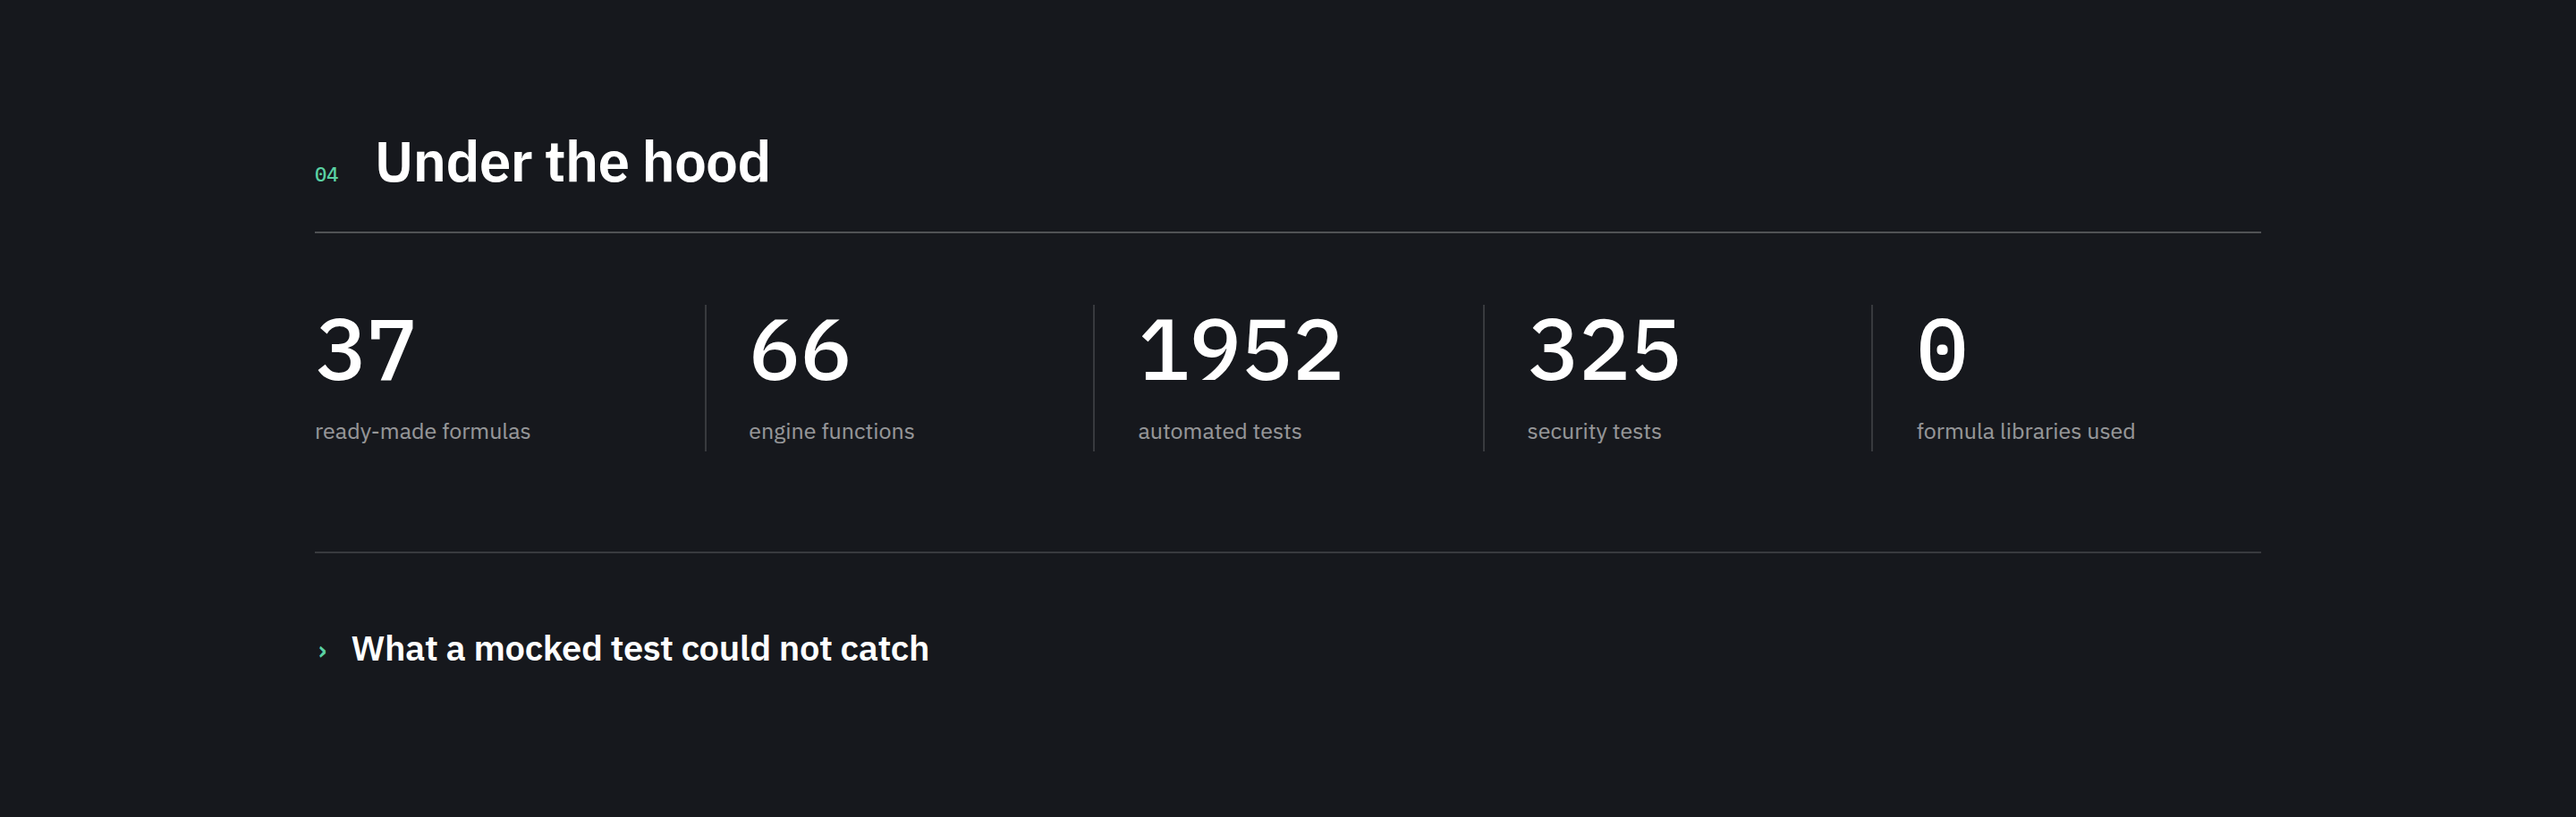
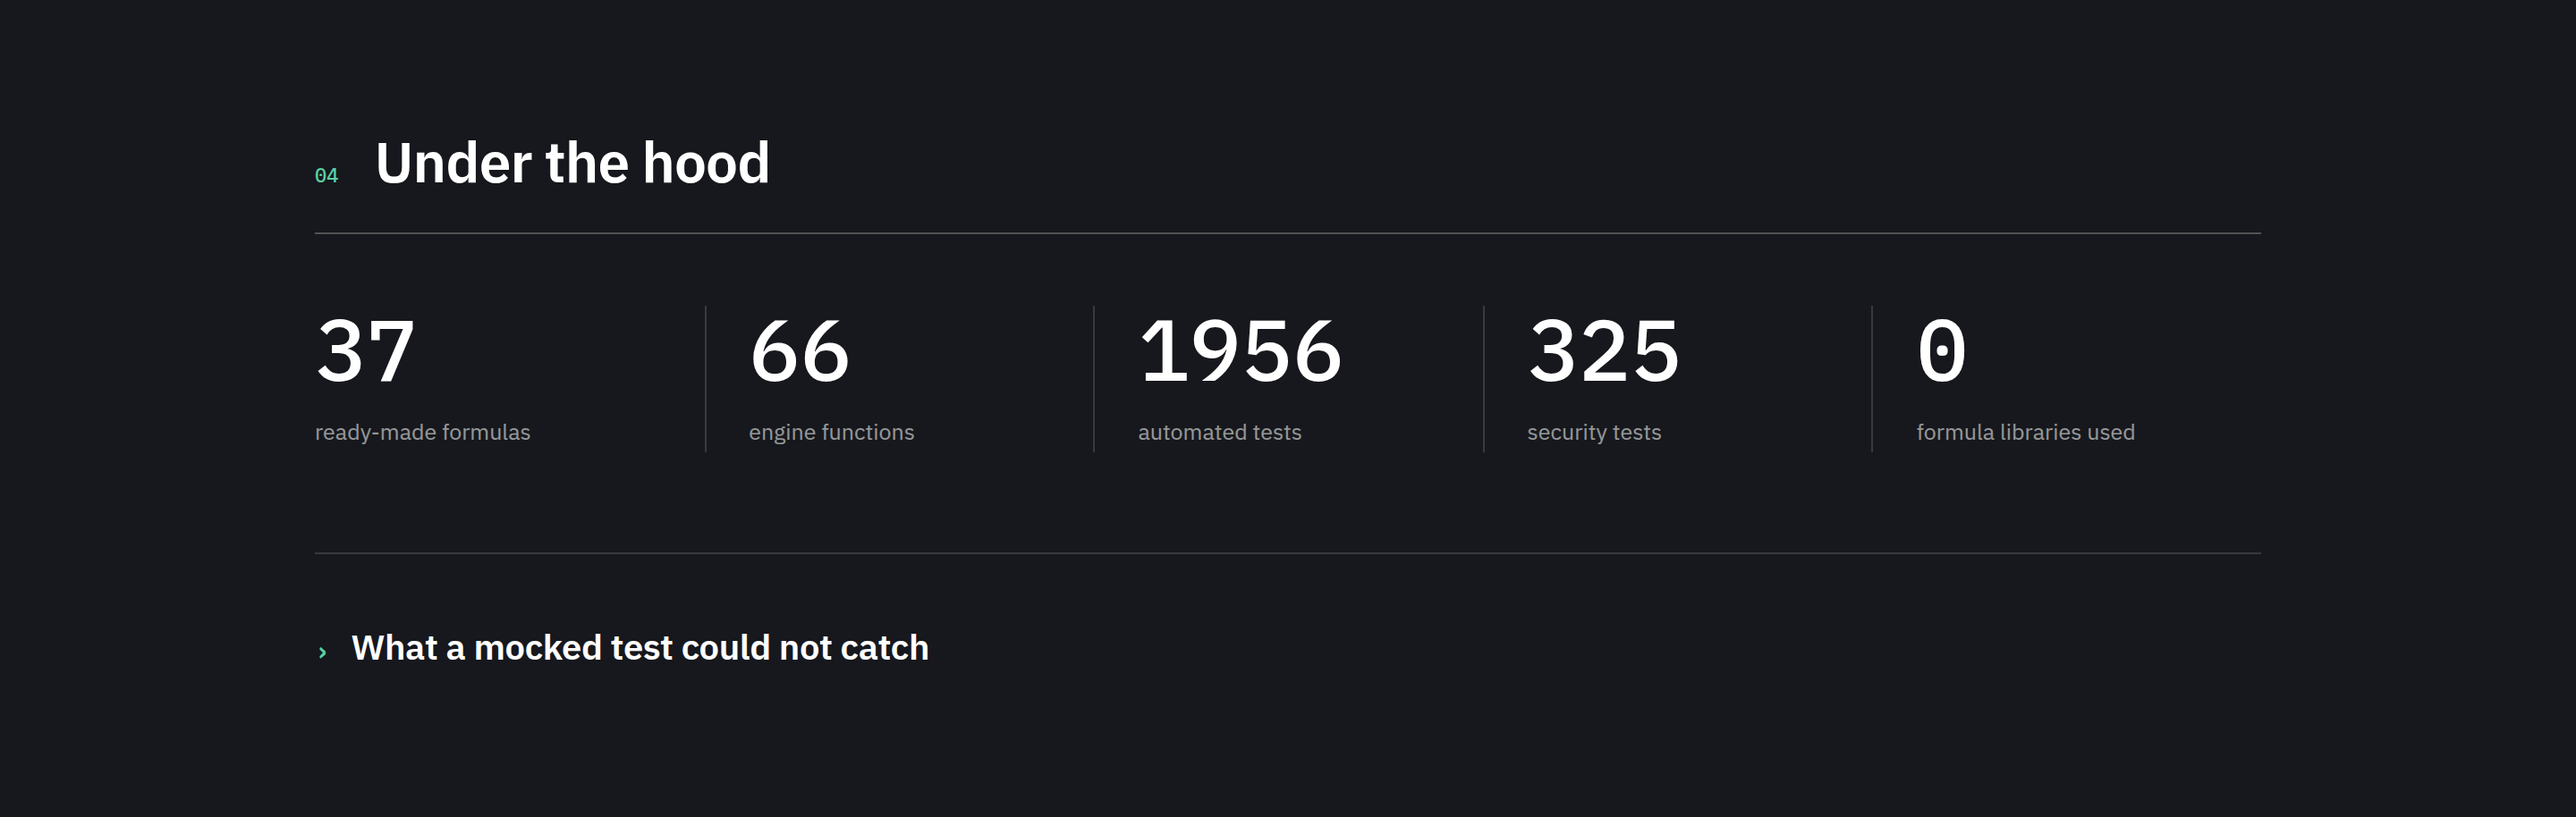
Recount after merging main: 1956 tests, picture 27 and social card retaken
Claude-Session: https://claude.ai/code/session_013pmWZsbmugfpqtYazrzfjj

diff --git a/src/i18n/th.ts b/src/i18n/th.ts
@@ -429,7 +429,7 @@ export const th: Messages = {
     stats: [
       { value: "37", label: "สูตรพร้อมใช้" },
       { value: "66", label: "ฟังก์ชันในเอนจิน" },
-      { value: "1952", label: "เทสต์อัตโนมัติ" },
+      { value: "1956", label: "เทสต์อัตโนมัติ" },
       { value: "325", label: "เทสต์ด้านความปลอดภัย" },
       { value: "0", label: "ไลบรารีคำนวณสูตร" },
     ],

diff --git a/src/i18n/en.ts b/src/i18n/en.ts
@@ -430,7 +430,7 @@ export const en: Messages = {
     stats: [
       { value: "37", label: "ready-made formulas" },
       { value: "66", label: "engine functions" },
-      { value: "1952", label: "automated tests" },
+      { value: "1956", label: "automated tests" },
       { value: "325", label: "security tests" },
       { value: "0", label: "formula libraries used" },
     ],

diff --git a/src/app/opengraph-image.tsx b/src/app/opengraph-image.tsx
@@ -29,7 +29,7 @@ export default function OgImage() {
   const stats = [
     ["66", "engine functions"],
     ["37", "palette formulas"],
-    ["1952", "automated tests"],
+    ["1956", "automated tests"],
     ["325", "of them security"],
     ["0", "formula libraries"],
   ];

diff --git a/README.en.md b/README.en.md
@@ -44,7 +44,7 @@ right here, with the URL, the header and the data never passing through our serv
   <img alt="Tailwind CSS" src="https://img.shields.io/badge/Tailwind_CSS-4-06B6D4?logo=tailwindcss&logoColor=white">
   <img alt="Zustand" src="https://img.shields.io/badge/Zustand-5-443E38">
   <a href="https://excel-to-go.vercel.app"><img alt="Open the app" src="https://img.shields.io/badge/▶_try_it-excel--to--go.vercel.app-2F9E44"></a>
-  <img alt="Vitest" src="https://img.shields.io/badge/tests-1952%20passing-2F9E44?logo=vitest&logoColor=white">
+  <img alt="Vitest" src="https://img.shields.io/badge/tests-1956%20passing-2F9E44?logo=vitest&logoColor=white">
   <img alt="CI" src="https://github.com/SuruchBoss/ExcelToGo/actions/workflows/ci.yml/badge.svg">
 </p>
 
@@ -65,7 +65,7 @@ self-hosted, straight from PostgreSQL/MySQL — one saved read-only query, and n
 and full-fidelity Excel/PDF export, where a chart exported to `.xlsx` is a real, editable chart
 bound to its cells, because the OOXML chart parts are written by hand (ExcelJS writes none). Plus optional
 bring-your-own-backend cloud save and live co-editing over it — presence, last-writer-wins with the loser told, and
-an undo that does not erase the other person's work. Bilingual UI (Thai/English), 1952 automated tests.
+an undo that does not erase the other person's work. Bilingual UI (Thai/English), 1956 automated tests.
 
 ---
 
@@ -109,7 +109,7 @@ Want the harder parts: [embedding a Thai font in the PDF, with stacked tone mark
 
 ---
 
-### 🧪 What 1952 passing tests could not catch
+### 🧪 What 1956 passing tests could not catch
 
 Every test of the assistant **mocks the model** — it returns what I imagined it would. Put a real
 API key behind it, ask fourteen ordinary questions, and **six answers used functions this engine
@@ -120,7 +120,7 @@ Then **the first fix made it worse.** The rule started as "give the closest form
 allows", so _"join all the names into one line"_ came back as `=SUM(A2:A20)` — `0` in the cell, no
 error, nothing to notice. **A visible `#NAME?` traded for an invisible wrong number.**
 
-**And it happened again, in a different place.** With every gate green — 1952 tests, `axe` clean on
+**And it happened again, in a different place.** With every gate green — 1956 tests, `axe` clean on
 both pages at two widths — an hour of clicking through the public build the way a first-time visitor
 would found three things no gate can see:
 
@@ -395,7 +395,7 @@ Other available commands:
 | `npm run build` | Build a production bundle |
 | `npm run start` | Run the production build (run `npm run build` first) |
 | `npm run lint` | Check code quality with ESLint |
-| `npm test` | Run the 1952-case Vitest suite |
+| `npm test` | Run the 1956-case Vitest suite |
 | `npm run check:readme` | Check the READMEs still match the code (links/images/test count/new modules/both languages) |
 | `npm run check:screens` | Figures printed on a screenshot still match the source |
 | `npm run check:rls` | Two real accounts against your own Supabase: does the database refuse what the policies say it should (needs env) |
@@ -2998,7 +2998,7 @@ architecture behind it.
 | `@anthropic-ai/sdk` | Connects to the Claude API for the AI assistant |
 | `lucide-react` | UI icons |
 | `clsx` | Conditional className composition |
-| `vitest` | Unit tests for the formula engine, sort logic, JSON-to-table conversion, pagination, rate limiting, templates, file fidelity, conditional formatting and live blocks (1952 cases) |
+| `vitest` | Unit tests for the formula engine, sort logic, JSON-to-table conversion, pagination, rate limiting, templates, file fidelity, conditional formatting and live blocks (1956 cases) |
 
 > **Note:** No off-the-shelf formula library (e.g. HyperFormula) is used — the **formula engine is hand-written**
 > (tokenizer, parser, evaluator, and functions) to keep full control over its behavior. See
@@ -4035,13 +4035,13 @@ the framework bundle itself, which isn't a trade worth making here. Written down
 ## 🧪 Testing
 
 ```bash
-npm test      # 1952 cases across 138 files, via Vitest
+npm test      # 1956 cases across 138 files, via Vitest
 ```
 
 Testing is focused on the **formula engine, sort logic, JSON-to-table conversion, pagination, rate-limit backoff, Excel templates and live-block placement** — pure functions with no React/DOM dependency, so
 they run fast and give high confidence.
 
-**But not one of those 1952 cases opens the app**, and nearly every bug this project found by hand lived in
+**But not one of those 1956 cases opens the app**, and nearly every bug this project found by hand lived in
 the wiring *between* pieces that all passed their tests — the toolbar's "+ row" called `addRow`, which
 announced nothing, while `insertRowAtSelection` next to it announced correctly (both tested) · the AI
 assistant sent a range including its text header, because the context builder read raw `sheet.cells`
@@ -4160,10 +4160,10 @@ once; disable `ArrowRight` in the grid and two assertions in the third fail. (Th
 second one stayed green: the `case` I inserted landed *after* the existing `case "ArrowRight"` and was dead
 code. Proving a gate means checking that the thing you meant to break actually broke.)
 
-> **1952 tests passed, and 43% of the assistant's answers were unusable** — because those tests mock
+> **1956 tests passed, and 43% of the assistant's answers were unusable** — because those tests mock
 > the model, so it returns what the test author imagined. A test count says what you thought to ask,
 > not whether you asked enough. Only a real API key found this: see
-> [What 1952 passing tests could not catch](#-what-1952-passing-tests-could-not-catch), repeatable
+> [What 1956 passing tests could not catch](#-what-1956-passing-tests-could-not-catch), repeatable
 > with `npm run check:ai`.
 
 | File | Cases | Tests |
